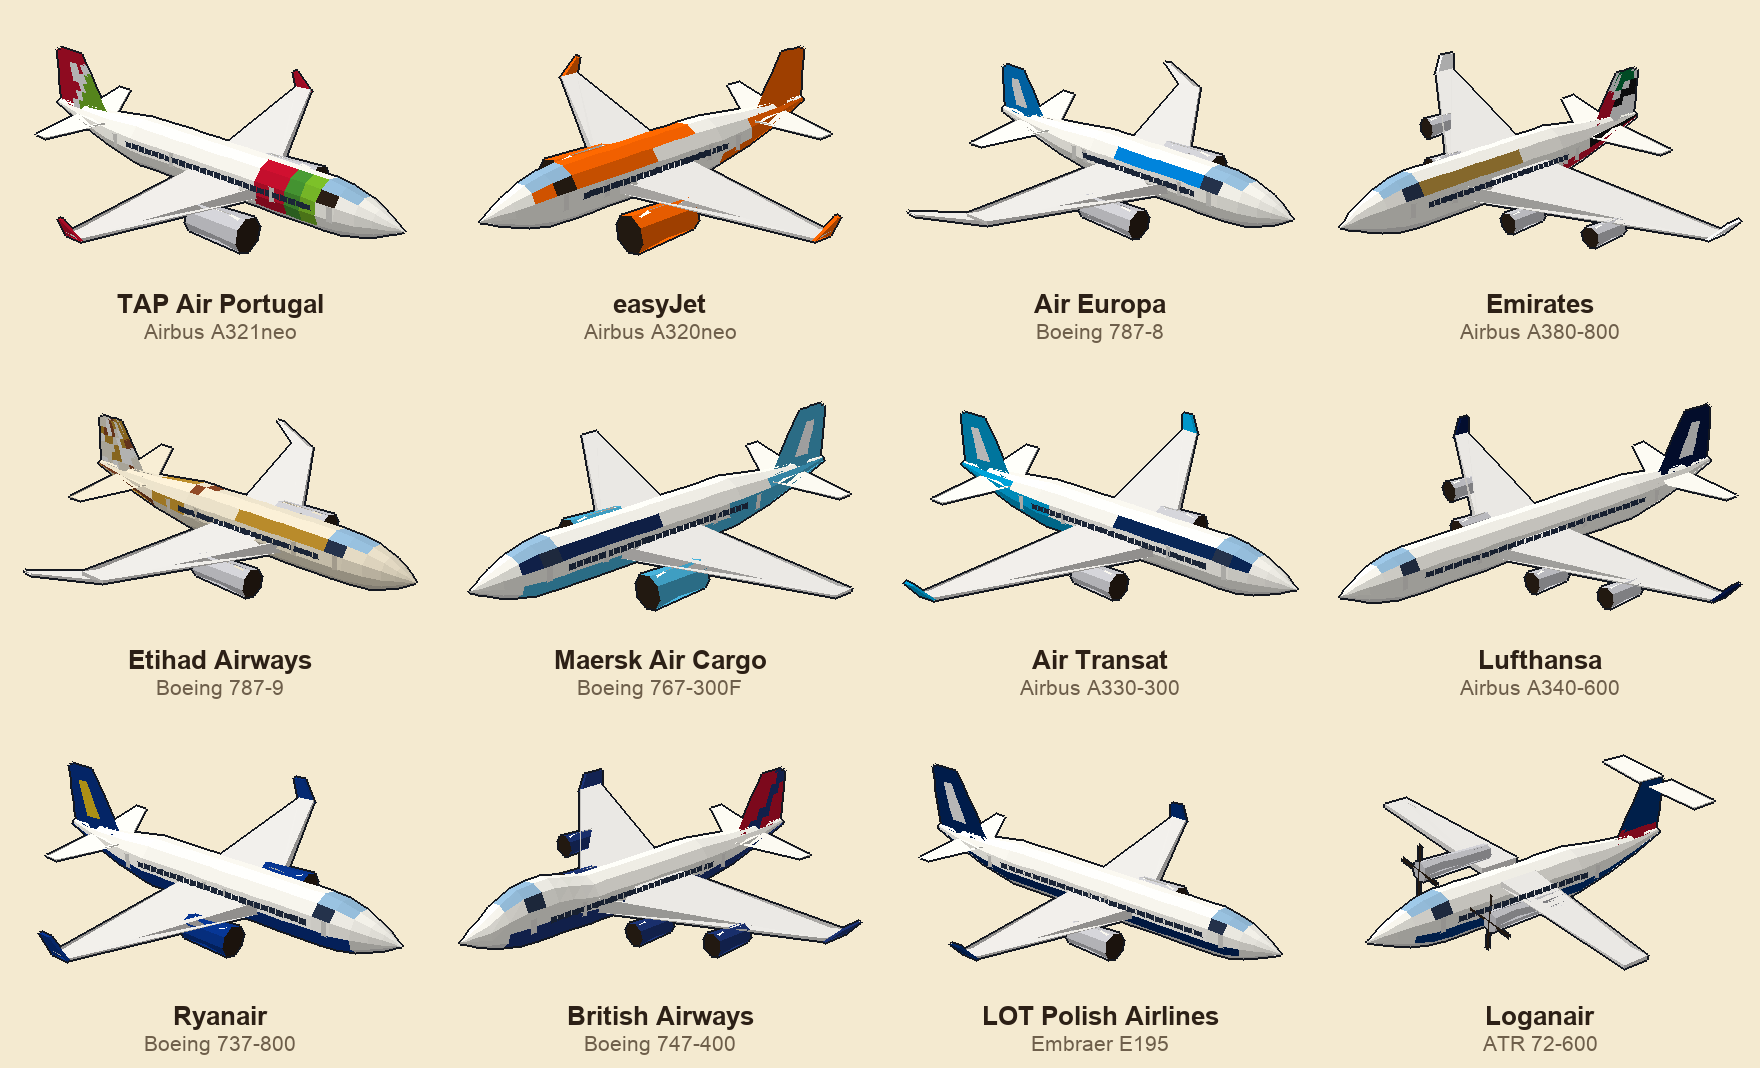
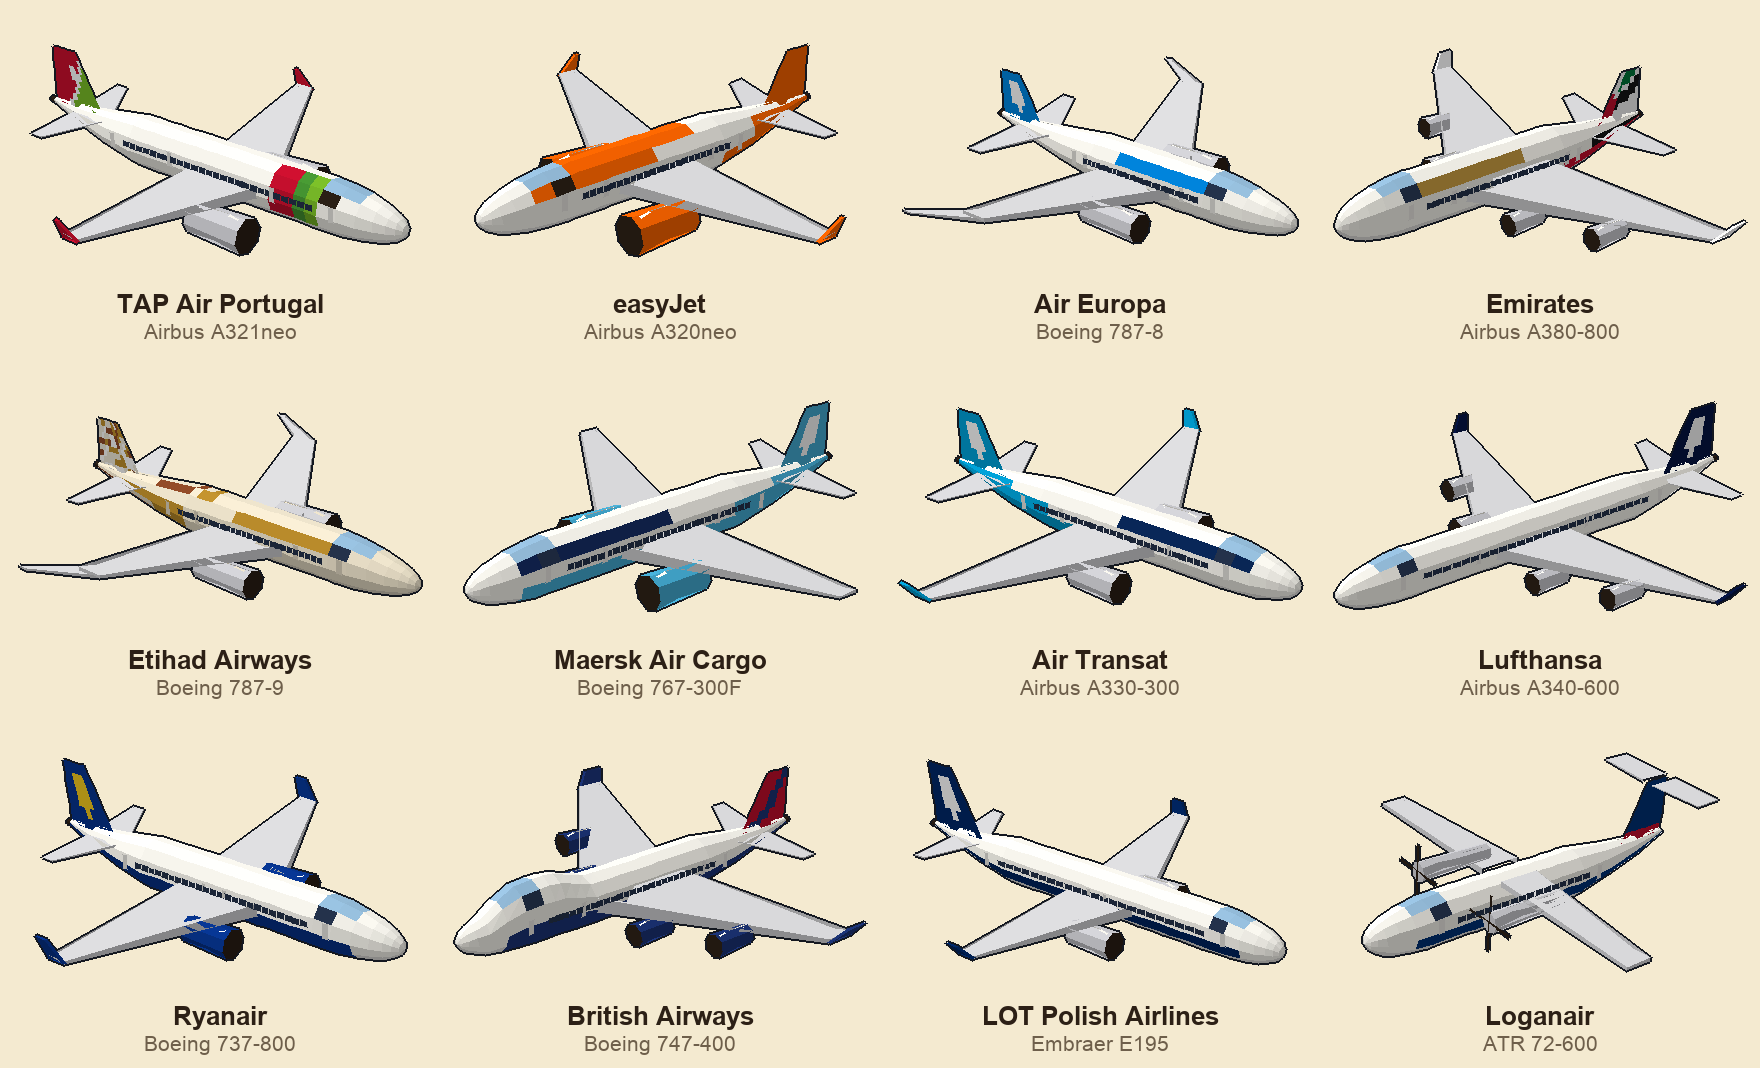
README: new aircraft renders (current models), reproducible with scripts/readme_image.py

diff --git a/tools/render_grid.cpp b/tools/render_grid.cpp
@@ -1,0 +1,47 @@
+// Host tool: renders the 3D model (same code as the board) for pairs of "CALLSIGN TYPE" into a PPM
+// grid:  render_grid out.ppm CELLWxCELLH COLUMNS CALLSIGN TYPE [CALLSIGN TYPE ...]
+// Used by scripts/readme_image.py (build: see that script).
+#include <initializer_list>
+#include "airline.h"
+#include "livery.h"
+#include "model3d.h"
+#include <stdio.h>
+#include <algorithm>
+using namespace jf;
+static int CW = 440, CH = 300, COLS = 4, ROWS = 1, W = 440, H = 300;
+static unsigned char img[1400][2200][3];  // up to 2200x1400
+static void tri(int x0,int y0,int x1,int y1,int x2,int y2,Rgb c){
+  int minx=std::max(0,std::min({x0,x1,x2})),maxx=std::min(W-1,std::max({x0,x1,x2}));
+  int miny=std::max(0,std::min({y0,y1,y2})),maxy=std::min(H-1,std::max({y0,y1,y2}));
+  auto e=[](int ax,int ay,int bx,int by,int px,int py){return (bx-ax)*(py-ay)-(by-ay)*(px-ax);};
+  int area=e(x0,y0,x1,y1,x2,y2); if(!area)return;
+  for(int y=miny;y<=maxy;y++)for(int x=minx;x<=maxx;x++){int a=e(x0,y0,x1,y1,x,y),b=e(x1,y1,x2,y2,x,y),d=e(x2,y2,x0,y0,x,y);
+    if((area>0&&a>=0&&b>=0&&d>=0)||(area<0&&a<=0&&b<=0&&d<=0)){img[y][x][0]=c.r;img[y][x][1]=c.g;img[y][x][2]=c.b;}}}
+int main(int argc, char** argv){
+  if(argc<6||sscanf(argv[2],"%dx%d",&CW,&CH)!=2||sscanf(argv[3],"%d",&COLS)!=1){fprintf(stderr,"usage: render_grid out.ppm CELLWxCELLH COLUMNS CALLSIGN TYPE ...\n");return 2;}
+  const int N=(argc-4)/2; ROWS=(N+COLS-1)/COLS; W=CW*COLS; H=CH*ROWS;
+  if(W>2200||H>1400||N>60){fprintf(stderr,"too big\n");return 2;}
+  struct P{const char*cs;const char*ty;}; P ps[60]; for(int i=0;i<N;i++){ps[i]={argv[4+2*i],argv[5+2*i]};}
+  for(int y=0;y<H;y++)for(int x=0;x<W;x++){img[y][x][0]=244;img[y][x][1]=234;img[y][x][2]=208;}
+  static ScreenTri tr[kMaxTris];
+  for(int k=0;k<N;k++){
+    const Airline*al=airlineFor(ps[k].cs); const Livery lv=liveryFor(al);
+    Palette pal={{252,250,242},{222,222,228},{120,130,150},{90,95,105},{150,190,220},{44,32,22},{255,255,255},{205,205,210},{120,130,150},lv.nose_red,0,lv.tail,lv.body,{120,130,150}};
+    if(al){pal.primary={al->r1,al->g1,al->b1};pal.secondary={al->r2,al->g2,al->b2};pal.tip=pal.primary;}
+    if(lv.tail==kTailTap)pal.tip=pal.secondary;
+    if(lv.tail==kTailFlag)pal.tip={250,250,250};
+    switch(lv.fin_base){case kFinWhite:pal.fin={250,250,250};break;case kFinSecondary:pal.fin=pal.secondary;break;default:pal.fin=pal.primary;}
+    pal.motif=lv.fin_base!=kFinPrimary?pal.primary:lv.white_motif?Rgb{255,255,255}:pal.secondary;
+    if(lv.engines==1)pal.engine=pal.primary; if(lv.engines==2)pal.engine=pal.secondary;
+    switch(lv.hull){case kHullPearl:pal.hull={214,214,212};break;case kHullChampagne:pal.hull={240,230,206};break;case kHullSky:pal.hull={150,200,235};break;default:break;}
+    pal.belly={(uint8_t)(pal.hull.r*0.88f),(uint8_t)(pal.hull.g*0.88f),(uint8_t)(pal.hull.b*0.9f)};
+    const Mesh&m=buildAircraft(ps[k].ty,pal);
+    const int cx=CW/2+CW*(k%COLS), cy=CH/2+CH*(k/COLS);
+    const bool right=(k%2==0);  // alternate the heading
+    size_t n=projectMesh(m,right,cx,cy,CW-30,CH-25,tr,kMaxTris);
+    const int th=CW>=400?2:1;  // outline width
+    for(int o=0;o<4;o++){int dx=((o==0)-(o==1))*th,dy=((o==2)-(o==3))*th;for(size_t i=0;i<n;i++)tri(tr[i].x[0]+dx,tr[i].y[0]+dy,tr[i].x[1]+dx,tr[i].y[1]+dy,tr[i].x[2]+dx,tr[i].y[2]+dy,{20,24,32});}
+    for(size_t i=0;i<n;i++)tri(tr[i].x[0],tr[i].y[0],tr[i].x[1],tr[i].y[1],tr[i].x[2],tr[i].y[2],tr[i].color);
+  }
+  FILE*f=fopen(argv[1],"wb");fprintf(f,"P6\n%d %d\n255\n",W,H);for(int y=0;y<H;y++)fwrite(img[y],1,(size_t)W*3,f);fclose(f);
+}

diff --git a/scripts/readme_image.py b/scripts/readme_image.py
@@ -1,0 +1,53 @@
+#!/usr/bin/env python3
+"""Regenerates docs/images/models.png: twelve airlines on twelve aircraft types, rendered on the host
+with the firmware's own 3D code (tools/render_grid.cpp) and labelled with Pillow.
+
+    python3 scripts/readme_image.py
+
+Needs g++ and Pillow. One airline per plane, varied types: edit PLANES to change the picture.
+"""
+import os, subprocess
+from PIL import Image, ImageDraw, ImageFont
+
+root = os.path.join(os.path.dirname(os.path.abspath(__file__)), "..")
+# (callsign prefix of the airline, ICAO type, airline name, aircraft name)
+PLANES = [
+    ("TAP1", "A21N", "TAP Air Portugal", "Airbus A321neo"),
+    ("EZY1", "A20N", "easyJet", "Airbus A320neo"),
+    ("AEA1", "B788", "Air Europa", "Boeing 787-8"),
+    ("UAE1", "A388", "Emirates", "Airbus A380-800"),
+    ("ETD1", "B789", "Etihad Airways", "Boeing 787-9"),
+    ("SRR1", "B763", "Maersk Air Cargo", "Boeing 767-300F"),
+    ("TSC1", "A333", "Air Transat", "Airbus A330-300"),
+    ("DLH1", "A346", "Lufthansa", "Airbus A340-600"),
+    ("RYR1", "B738", "Ryanair", "Boeing 737-800"),
+    ("BAW1", "B744", "British Airways", "Boeing 747-400"),
+    ("LOT1", "E195", "LOT Polish Airlines", "Embraer E195"),
+    ("LOG1", "AT76", "Loganair", "ATR 72-600"),
+]
+COLS, CW, CH, LABEL = 4, 440, 300, 56
+
+aj = subprocess.check_output(["bash", "-c", ". scripts/_arduinojson.sh && echo $AJ_DIR"], cwd=root, text=True).strip()
+fw = os.path.join(root, "firmware/jf_flight_display")
+os.makedirs(os.path.join(root, "build"), exist_ok=True)
+exe = os.path.join(root, "build/render_grid")
+subprocess.run(["g++", "-std=c++17", "-O2", f"-I{fw}", f"-I{aj}", os.path.join(root, "tools/render_grid.cpp"),
+                *[os.path.join(fw, f) for f in ("model3d.cpp", "silhouette.cpp", "airline.cpp")], "-o", exe], check=True)
+ppm = os.path.join(root, "build/readme_grid.ppm")
+subprocess.run([exe, ppm, f"{CW}x{CH}", str(COLS)] + [x for p in PLANES for x in p[:2]], check=True)
+grid = Image.open(ppm).convert("RGB")
+rows = (len(PLANES) + COLS - 1) // COLS
+out = Image.new("RGB", (CW * COLS, (CH + LABEL) * rows), (244, 234, 208))
+d = ImageDraw.Draw(out)
+bold, plain = "/System/Library/Fonts/Supplemental/Arial Bold.ttf", "/System/Library/Fonts/Supplemental/Arial.ttf"
+f1 = ImageFont.truetype(bold, 26) if os.path.exists(bold) else ImageFont.load_default()
+f2 = ImageFont.truetype(plain, 21) if os.path.exists(plain) else ImageFont.load_default()
+for k, (_, _, airline, model) in enumerate(PLANES):
+    c, r = k % COLS, k // COLS
+    out.paste(grid.crop((c * CW, r * CH, (c + 1) * CW, (r + 1) * CH)), (c * CW, r * (CH + LABEL)))
+    y = r * (CH + LABEL) + CH - 6
+    d.text((c * CW + CW // 2, y), airline, font=f1, fill=(44, 32, 22), anchor="mt")
+    d.text((c * CW + CW // 2, y + 30), model, font=f2, fill=(110, 95, 75), anchor="mt")
+dest = os.path.join(root, "docs/images/models.png")
+out.save(dest, optimize=True)
+print(dest, out.size)

diff --git a/README.md b/README.md
@@ -7,7 +7,7 @@ type, route, altitude, speed, distance, a compass, and a shaded 3D model in the 
 
 ![3D aircraft models rendered by the firmware's own code (host-side preview)](docs/images/models.png)
 
-<sub>Twelve airlines on twelve aircraft types, rendered on the host from the same 3D code that runs on the board, so the shapes and liveries match; the real screen is 320×240 and looks smaller and blockier.</sub>
+<sub>Twelve airlines on twelve aircraft types, rendered on the host from the same 3D code that runs on the board, so the shapes and liveries match; the real screen is 320×240 and looks smaller and blockier. Regenerate with `python3 scripts/readme_image.py`.</sub>
 
 ## Features
 - **Carousel** of the nearest aircraft (default 40 km), touch to skip ahead. 20 s data refresh.
